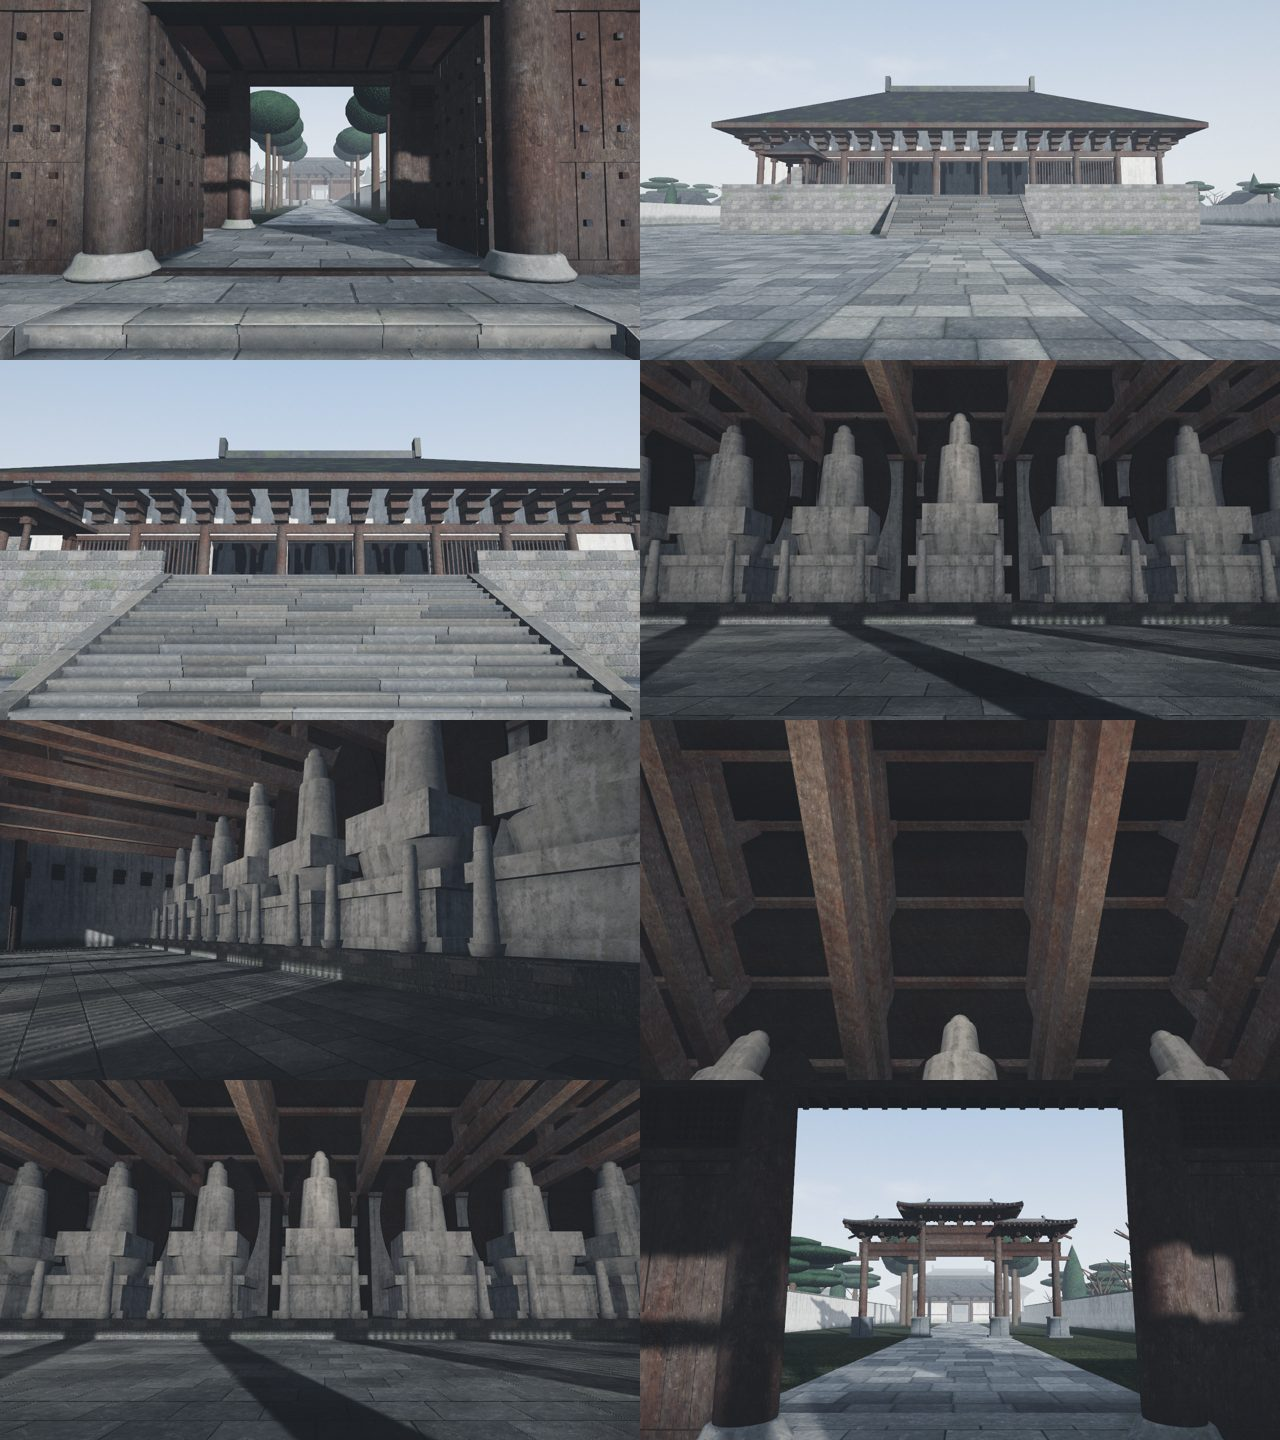
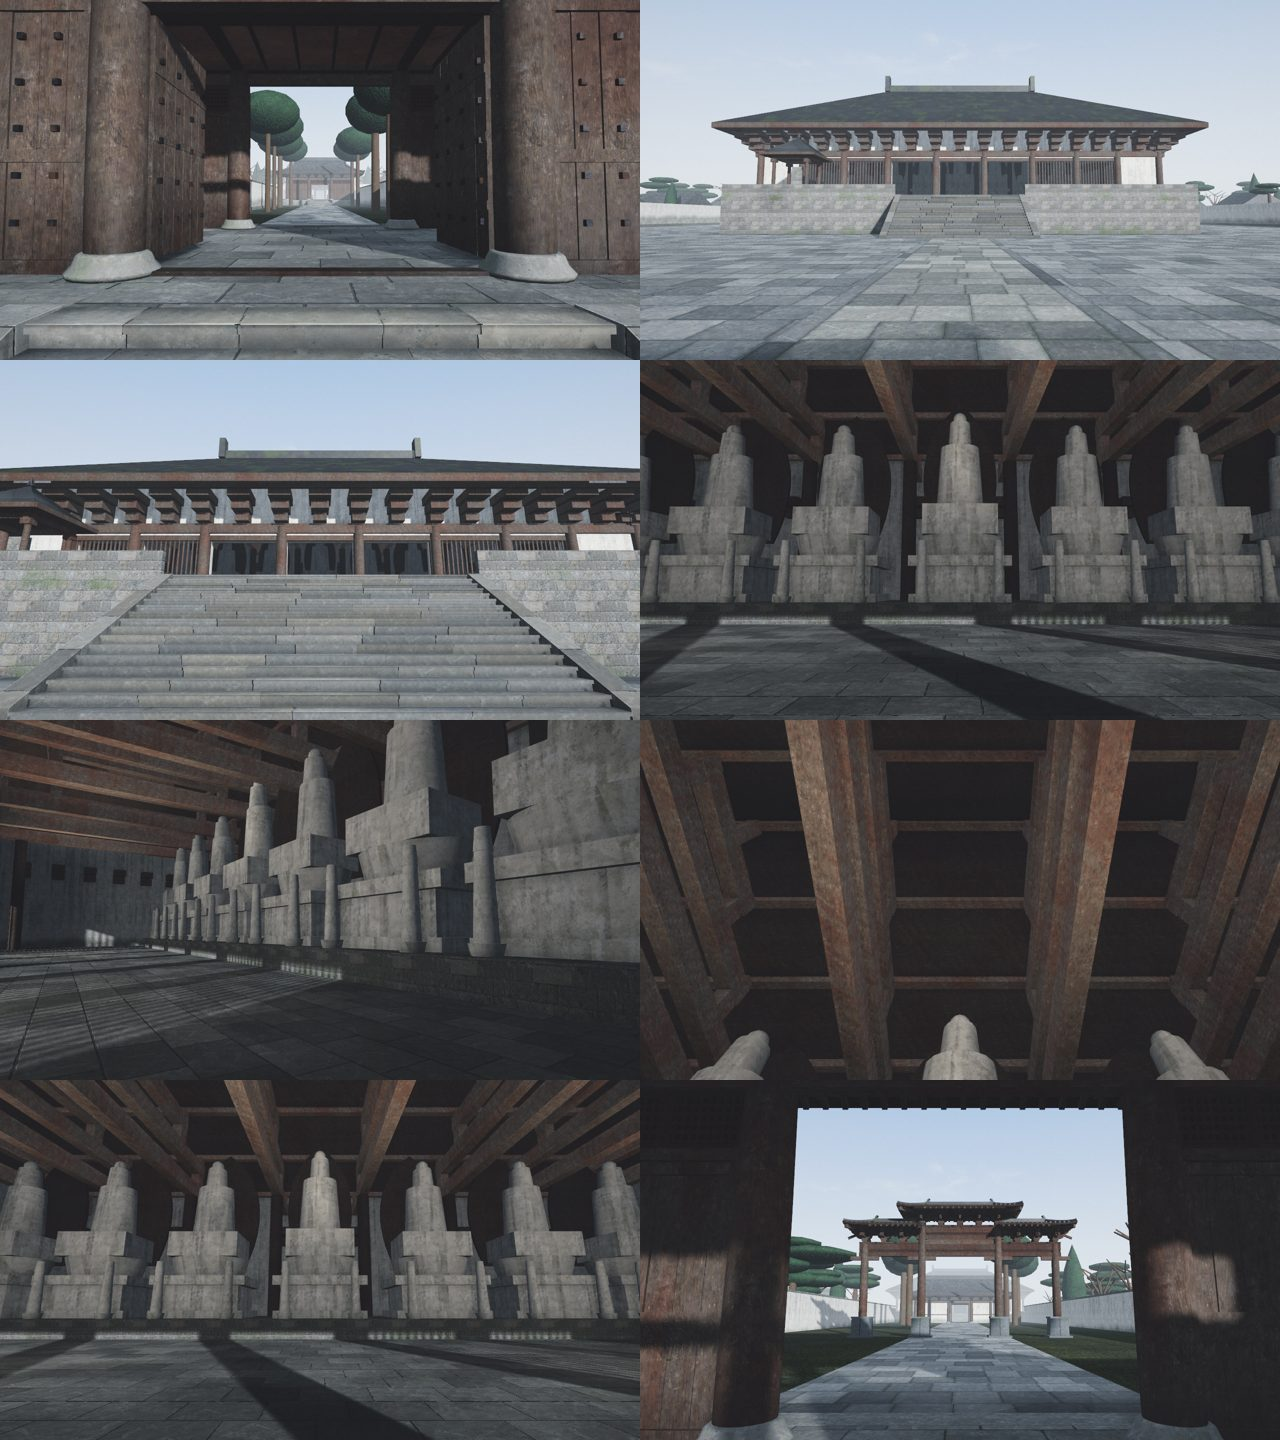
docs(t05): J01 winter-day on a T4, collage and manifest (#573)
Claude-Session: https://claude.ai/code/session_01Cq65vF3yNFPa5PbVvDNJGE

diff --git a/docs/t05/evidence/mood-j01/README.md b/docs/t05/evidence/mood-j01/README.md
@@ -1,4 +1,5 @@
-# T05 J01：初冬晴冷光（冬·昼）的八张（#573 步 7，#665）
+# T05 J01：初冬晴冷光（冬·昼）在 T4 上的八张（#573 步 7，#665）
 
-拼图两列四行，自左到右、自上到下：到达点、cam01、cam02、cam03、cam04、cam05、cam06、cam07，`?level=t05&season=winter&time=day`，1280×720，软件渲染（SwiftShader，只看形，光的判断以 T4 为准）。八张原图没有推证据库（本环境没有 `hf` 命令），只留这张拼图；要原图可按 `node tools/shots.js --level=t05 <名>@winter-day` 重出。
[1 lines of base64/hex data omitted]
+八张原图在证据库（`node tools/evidence.mjs pull docs/t05/evidence/mood-j01`）。
 数和来源见 `docs/t05/DECISIONS.md` 2026-11-24「步 7」与 `docs/t00/SOURCES.md` 末行。
